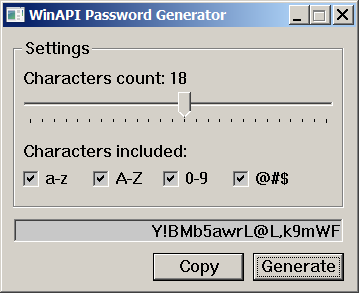
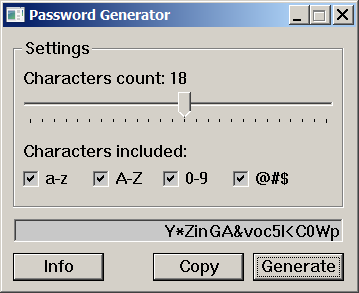
Add files via upload

diff --git a/main.cpp b/main.cpp
@@ -16,6 +16,7 @@
 #define ID_TEXTBOX_PASSWORD			1008
 #define ID_BUTTON_COPY				1009
 #define ID_BUTTON_GENERATE			1010
+#define ID_BUTTON_INFO				1011
 
 #define DEFAULT_NUMBER		12
 #define RANGE_MIN 			5
@@ -35,6 +36,7 @@ HWND ctlCheckboxSpecial;
 HWND ctlTextboxPassword;
 HWND ctlButtonCopy;
 HWND ctlButtonGenerate;
+HWND ctlButtonInfo;
 
 HFONT hFont;
 HFONT hFontMono;
@@ -50,6 +52,7 @@ NS_PASSWORD::PasswordGenerator pGenerator(number, isCheckboxLower, isCheckboxUpp
 
 bool isTracking = false;
 
+/*
 int tabOrder[] = {
 	ID_TRACKBAR_NUMBER,		// 0
 	ID_CHECKBOX_LOWER,		// 1
@@ -58,10 +61,12 @@ int tabOrder[] = {
 	ID_CHECKBOX_SPECIAL,	// 4
 	ID_TEXTBOX_PASSWORD,	// 5
 	ID_BUTTON_GENERATE,		// 6
-	ID_BUTTON_COPY			// 7
+	ID_BUTTON_COPY,			// 7
+	ID_BUTTON_INFO			// 8
 };
 
 int currentFocus = 0;
+*/
 
 //=============================================================================
 LRESULT CALLBACK WndProc(HWND, UINT, WPARAM, LPARAM);
@@ -79,10 +84,12 @@ bool ClipboardCopy(const std::string& str);
 std::string Generate(int number, bool isCheckboxLower, bool isCheckboxUpper, bool isCheckboxDigits, bool isCheckboxSpecial);
 std::string GetEditText(HWND hEdit);
 
+void ShowInfo();
+
 //=============================================================================
 int WINAPI wWinMain(HINSTANCE hInstance, HINSTANCE hPrevInstance, PWSTR lpCmdLine, int nCmdShow)
 {
-	const char szAppName[] = TEXT("WinAPI Password Generator");
+	const char szAppName[] = TEXT("Password Generator");
 	const char szErrRegClass[] = TEXT("Error while registering a class instance.\nApplication will be terminated.");
 	HWND hwnd;
 	MSG msg;
@@ -134,9 +141,10 @@ int WINAPI wWinMain(HINSTANCE hInstance, HINSTANCE hPrevInstance, PWSTR lpCmdLin
 //=============================================================================
 void CreateControls(HWND hwnd)
 {
+	
 	CreateFontCustom(hFont, "Tahoma", 0);			//TODO: Interface scaling
 	CreateFontCustom(hFontMono, "Courier New", 0);	//TODO: Interface scaling
-
+	
 	INITCOMMONCONTROLSEX initCCEx;
 	InitCommonControlsEx(&initCCEx); 	
 	
@@ -220,11 +228,25 @@ void CreateControls(HWND hwnd)
 		0,											// extended window style
 		"BUTTON",									// predefined class 
 		"Generate",									// button text 
-		WS_VISIBLE | WS_CHILD | BS_DEFPUSHBUTTON ,	// styles 
+		WS_VISIBLE | WS_CHILD | BS_DEFPUSHBUTTON | WS_TABSTOP ,	// styles 
 		250, 225,									// X, Y positions of window 
 		91, 28,									// width, height of window
 		hwnd,										// parent window 
 		(HMENU)ID_BUTTON_GENERATE,					// menu handle or child identifier 
+		(HINSTANCE) GetWindowLong(hwnd, GWL_HINSTANCE), // handle to application instance
+		NULL // pointer not needed 
+	); 
+
+	ctlButtonInfo = CreateWindowEx
+	(
+		0,											// extended window style
+		"BUTTON",									// predefined class 
+		"Info",									// button text 
+		WS_VISIBLE | WS_CHILD | BS_DEFPUSHBUTTON | WS_TABSTOP ,	// styles 
+		10, 225,									// X, Y positions of window 
+		91, 28,									// width, height of window
+		hwnd,										// parent window 
+		(HMENU)ID_BUTTON_INFO,					// menu handle or child identifier 
 		(HINSTANCE) GetWindowLong(hwnd, GWL_HINSTANCE), // handle to application instance
 		NULL // pointer not needed 
 	); 
@@ -235,7 +257,7 @@ void CreateControls(HWND hwnd)
 	//TODO: Interface scaling
 	//UpdateFonts();
 	
-	//SetFocus(ctlButtonGenerate);
+	SetFocus(ctlButtonGenerate);
 }
 
 //=============================================================================
@@ -344,12 +366,30 @@ void ChangeFocusByTabIncrease()
 	SetWindowText(ctlTextboxPassword, buffer);
 	*/
 
+	/*
 	SetFocus(GetDlgItem(GetActiveWindow(), tabOrder[currentFocus]));
 	
-	if (currentFocus == 7)
+	if (currentFocus == 8)
 		currentFocus = 0;
 	else
-		currentFocus++;		
+		currentFocus++;	
+	*/
+}
+
+void ShowInfo()
+{
+	std::string info;
+	
+	info += "Password Generator v.1.0\n\n\n";
+	info += "Created by ap13ski\n";
+	info += "https://github.com/ap13ski\n";
+	info += "ap13ski@gmail.com\n\n";
+	
+	info += "Compiled with MSVC++ 6.0, x86 v.12.00.8168.\n\n";
+	
+	//info += "Praise the Machine God.\n";
+	
+	MessageBox(NULL, info.c_str(), "Information", MB_OK | MB_ICONINFORMATION);	
 }
 
 //=============================================================================
@@ -401,6 +441,10 @@ LRESULT CALLBACK WndProc(HWND hwnd, UINT msg, WPARAM wParam, LPARAM lParam)
 
 					case ID_BUTTON_GENERATE:
 						UpdateTextboxPassword();
+						break;
+
+					case ID_BUTTON_INFO:
+						ShowInfo();
 						break;	
 					
 					case ID_CHECKBOX_LOWER:
